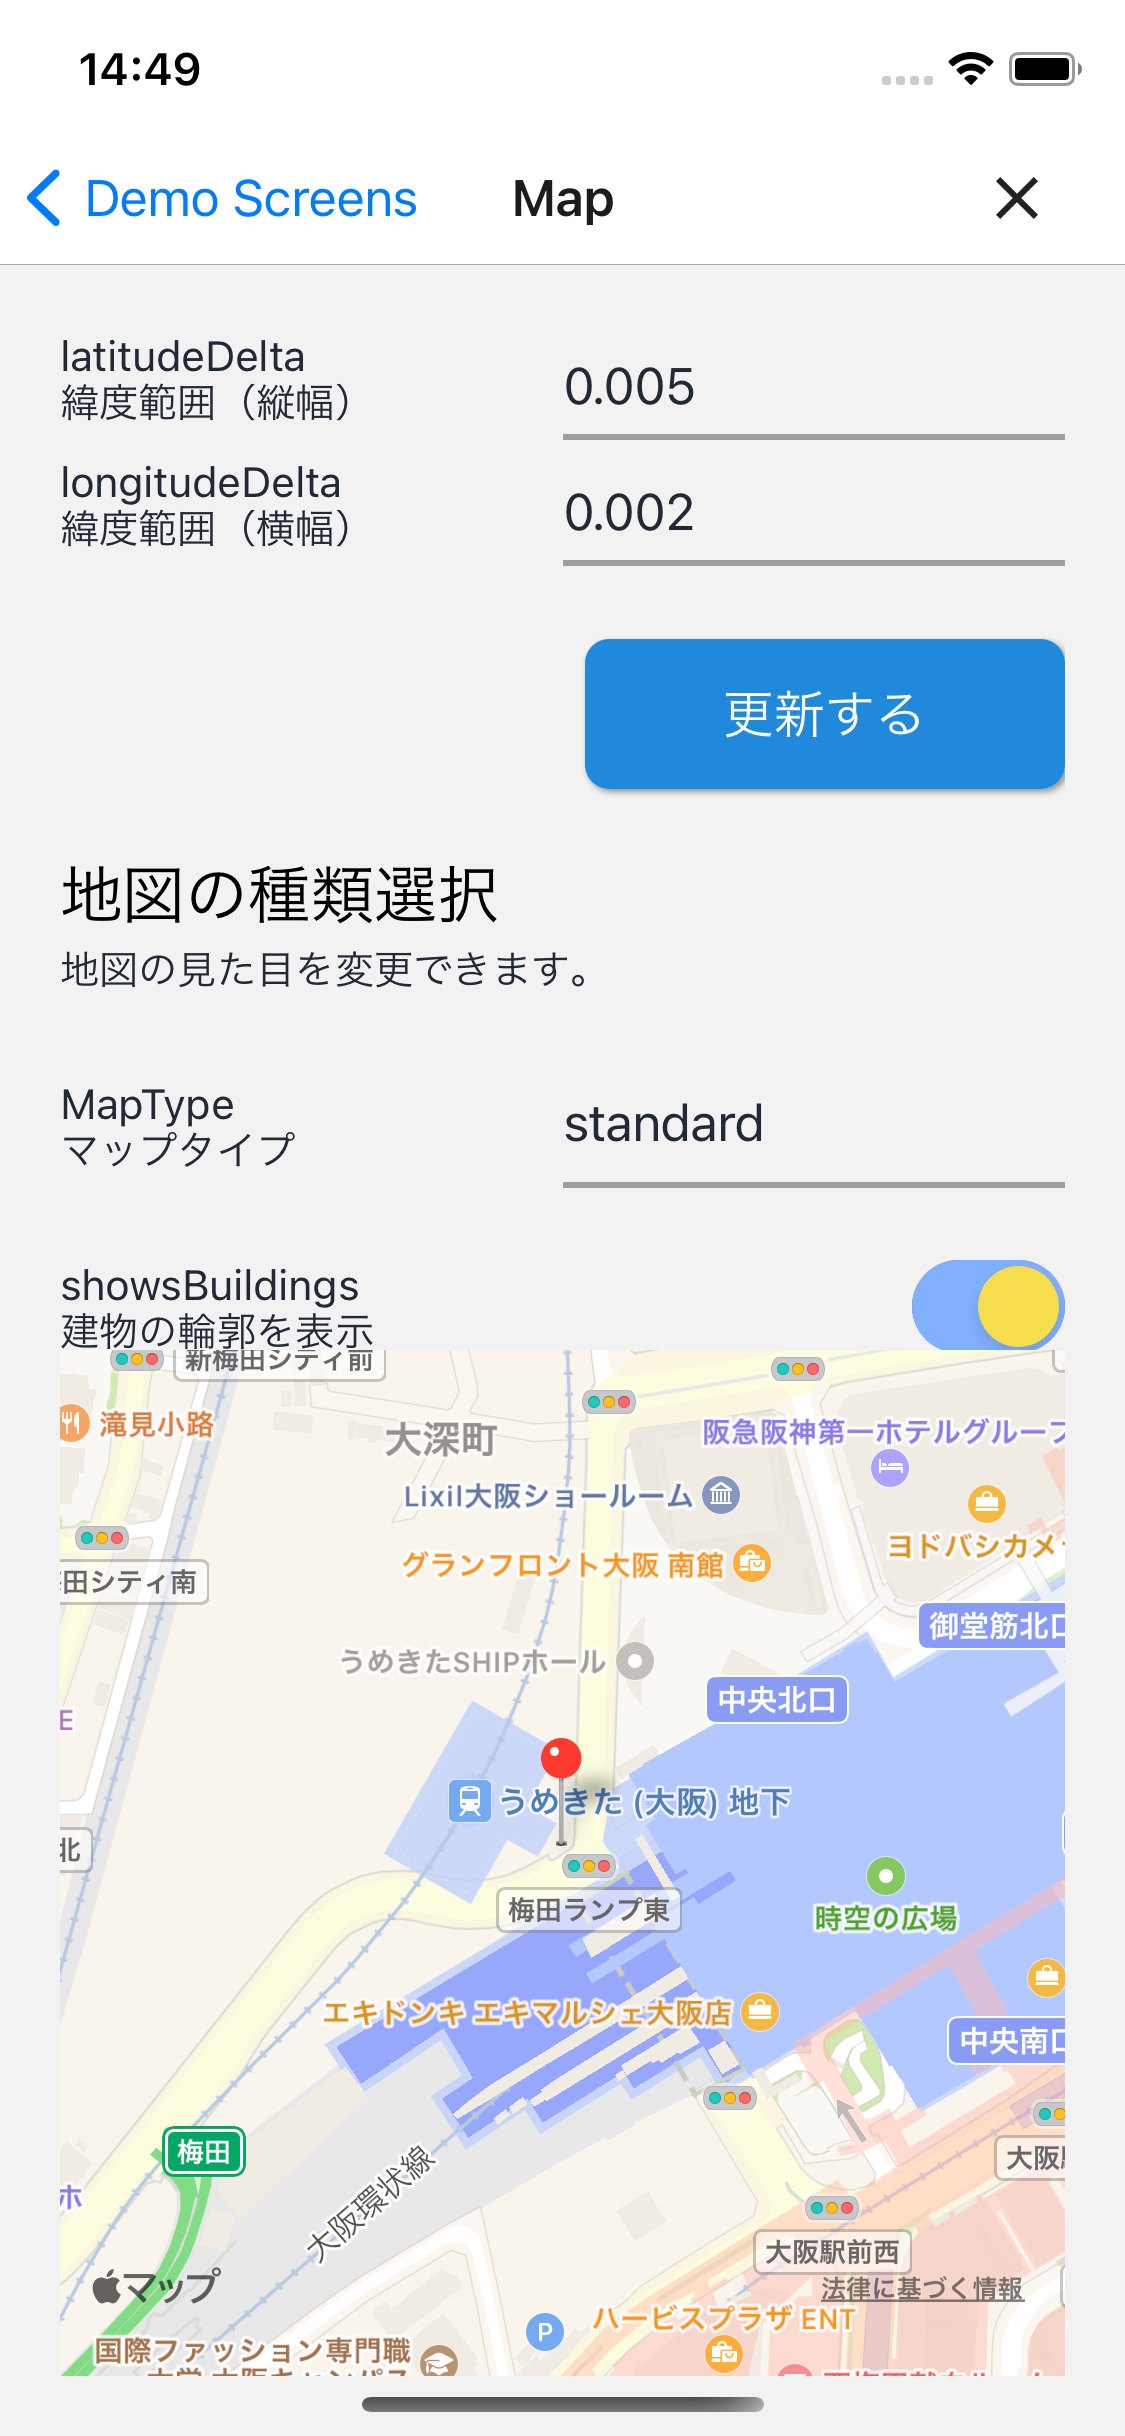
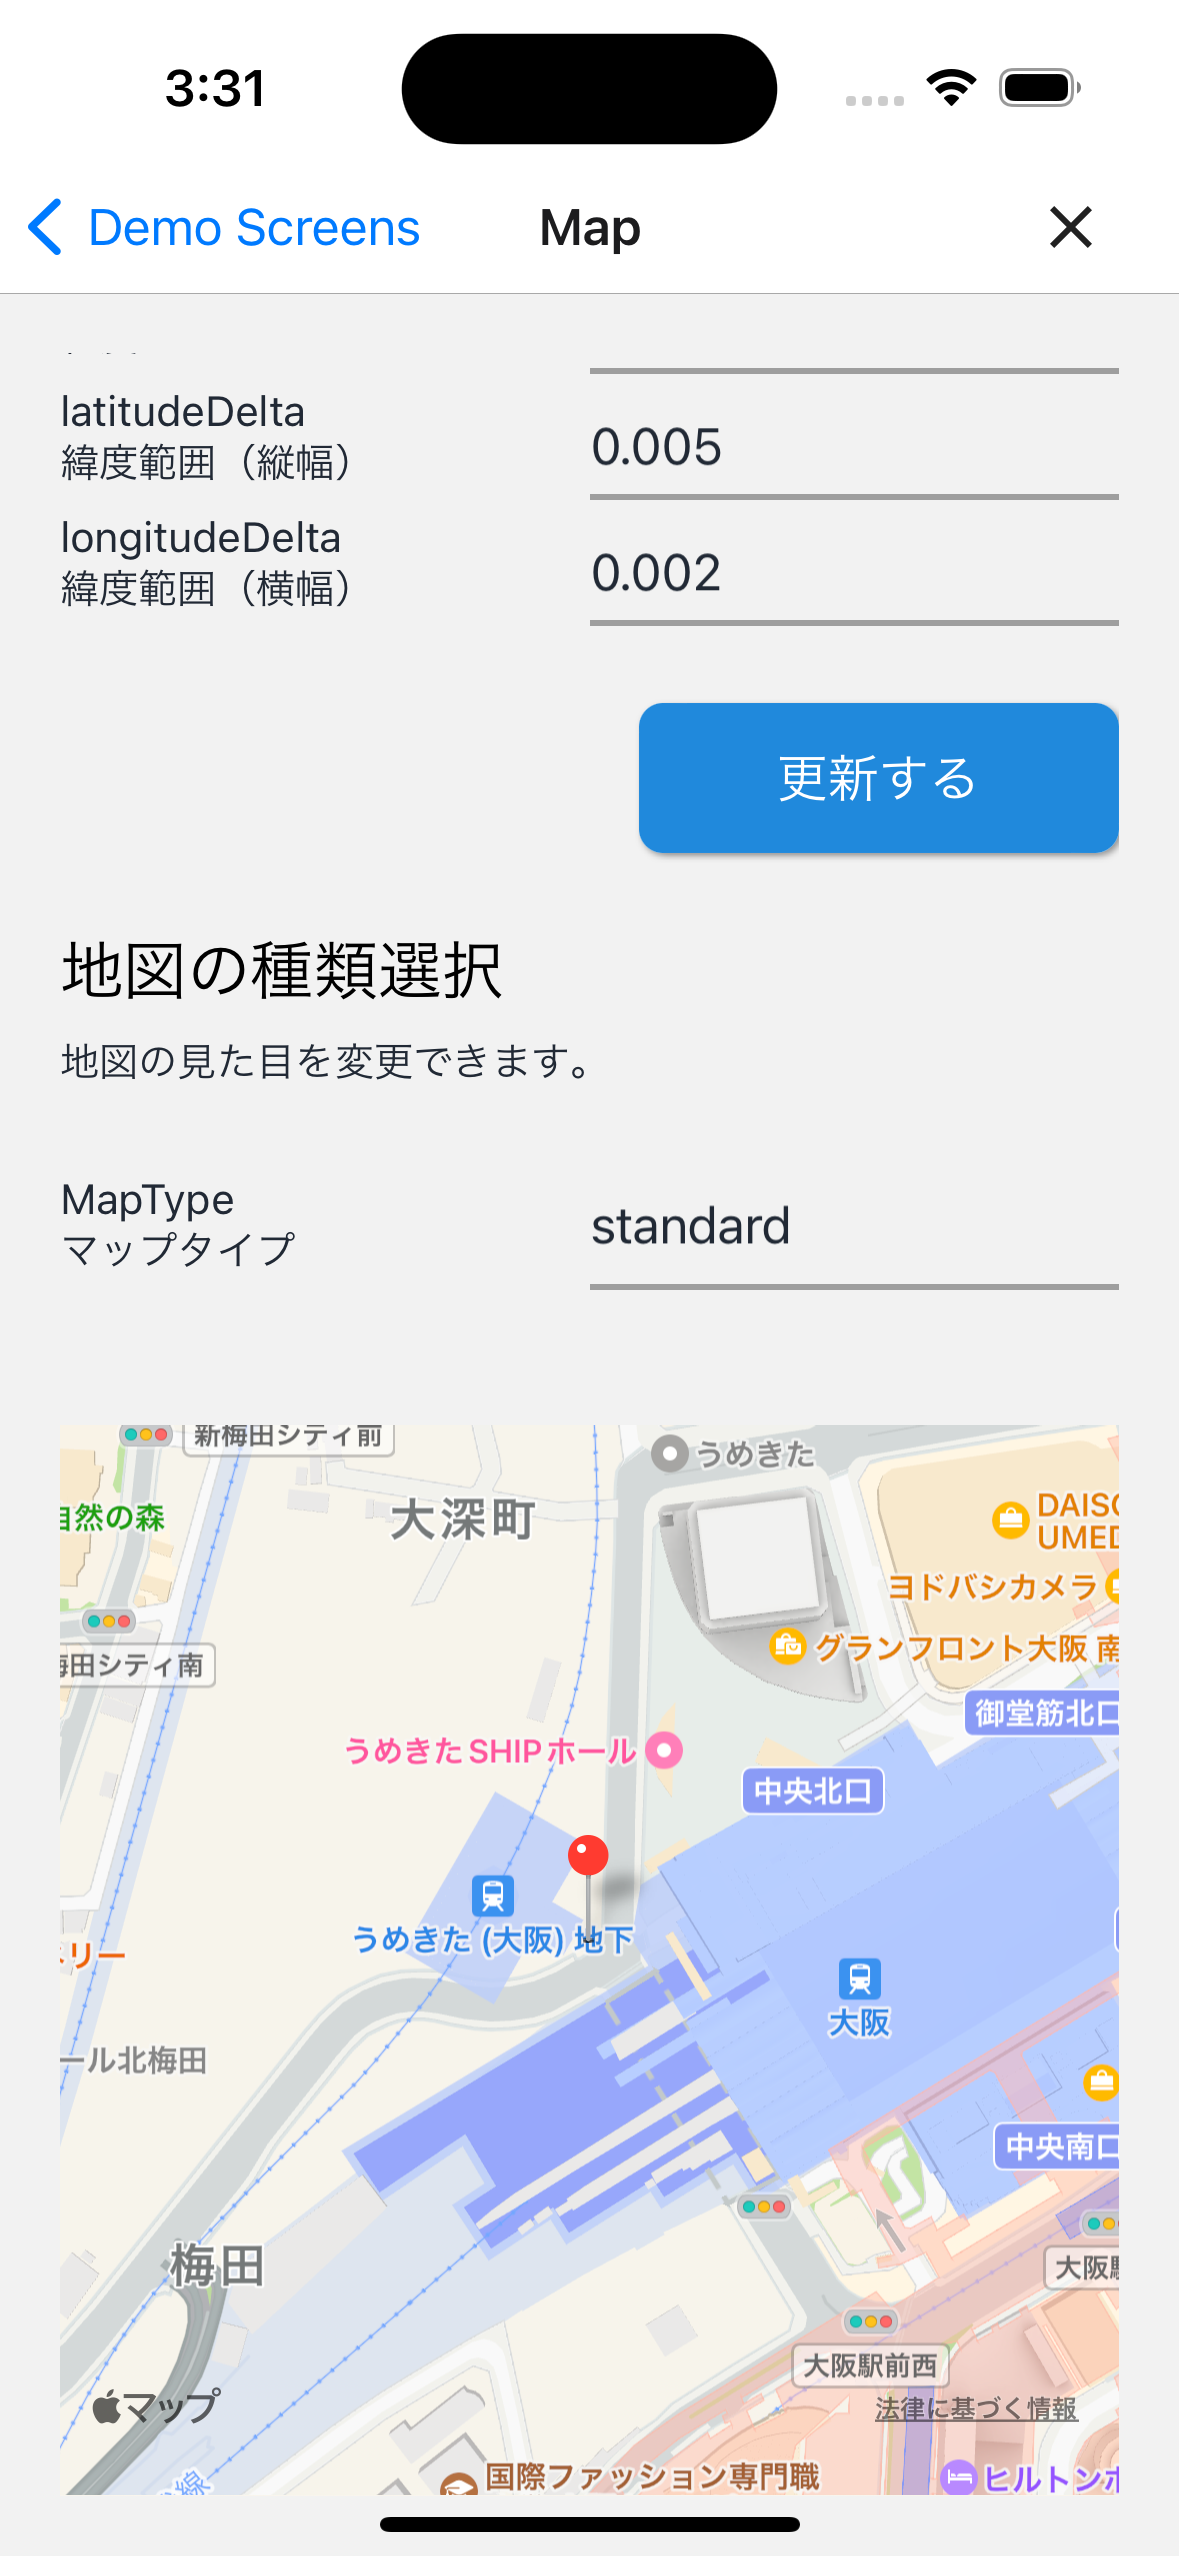
showBuildingsを削除

diff --git a/example-app/SantokuApp/src/features/demo-map/pages/DemoMapPage.tsx b/example-app/SantokuApp/src/features/demo-map/pages/DemoMapPage.tsx
@@ -49,7 +49,6 @@ export const DemoMapPage: React.FC<DemoMapViewPageProps> = () => {
     onSubmit,
   });
 
-  const [showsBuildings, setShowsBuildings] = useState<boolean>(true);
   const [scrollEnable, setScrollEnable] = useState<boolean>(true);
   const [zoomEnabled, setZoomEnabled] = useState<boolean>(true);
   const [rotateEnabled, setRotateEnabled] = useState<boolean>(true);
@@ -149,15 +148,6 @@ export const DemoMapPage: React.FC<DemoMapViewPageProps> = () => {
                 <MapTypePicker mapType={mapType} setMapType={setMapType} />
               </View>
             </View>
-            <View style={styles.toggleConfigContainer}>
-              <View>
-                <Text>showsBuildings</Text>
-                <Text>建物の輪郭を表示</Text>
-              </View>
-              <View>
-                <ToggleButton isPressed={showsBuildings} setIsPressed={setShowsBuildings} />
-              </View>
-            </View>
             <Spacer heightRatio={0.05} />
             <Text h4>操作の種類の制限</Text>
             <Spacer heightRatio={0.01} />
@@ -213,7 +203,6 @@ export const DemoMapPage: React.FC<DemoMapViewPageProps> = () => {
           zoomEnabled={zoomEnabled}
           rotateEnabled={rotateEnabled}
           mapType={mapType}
-          showsBuildings={showsBuildings}
           pitchEnabled={pitchEnabled}
           style={styles.map}>
           {markerList.map((item, index) => (
